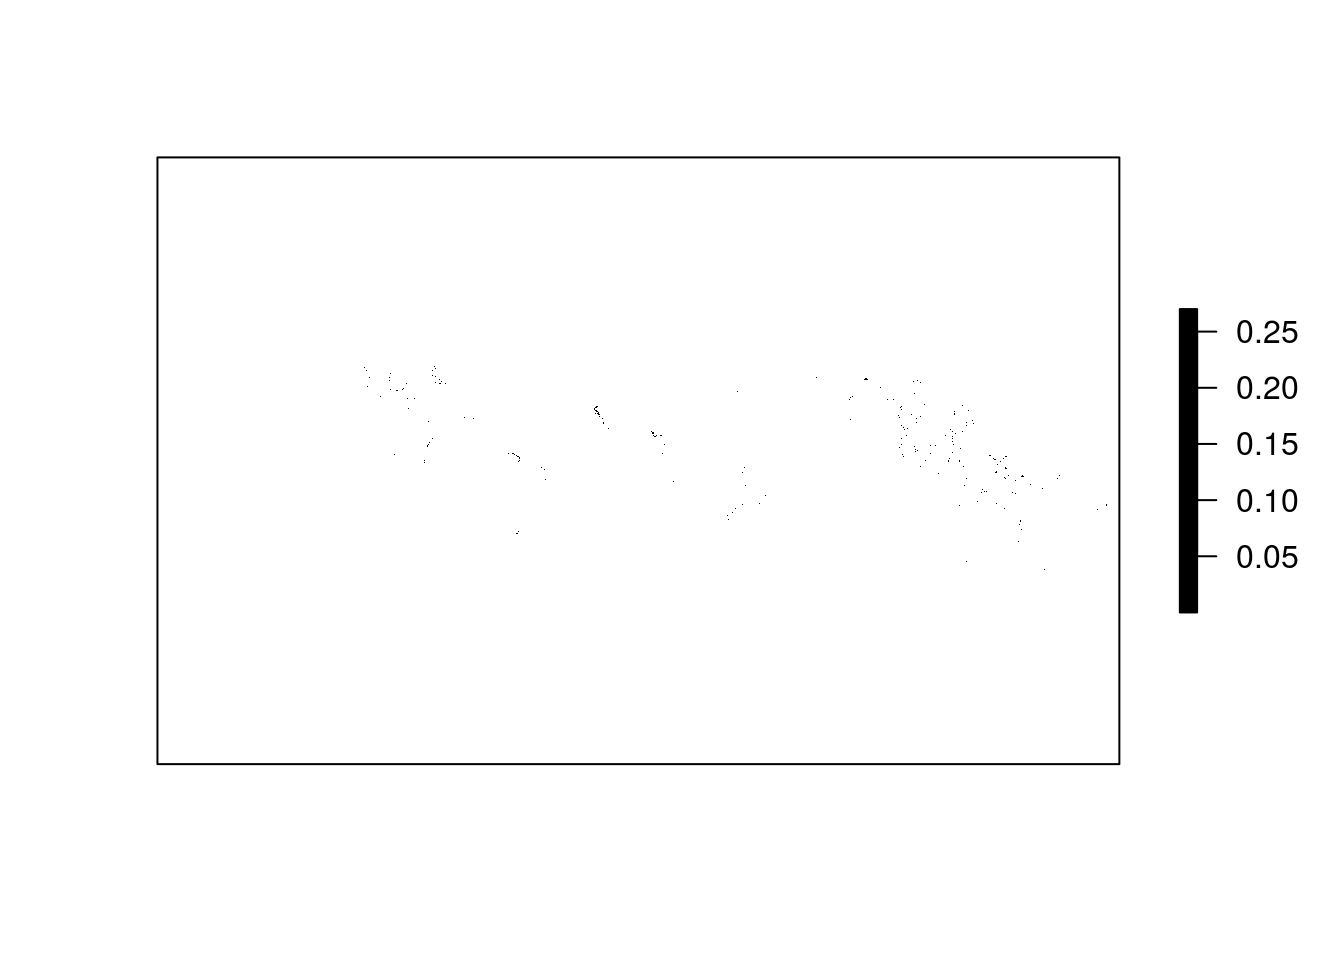
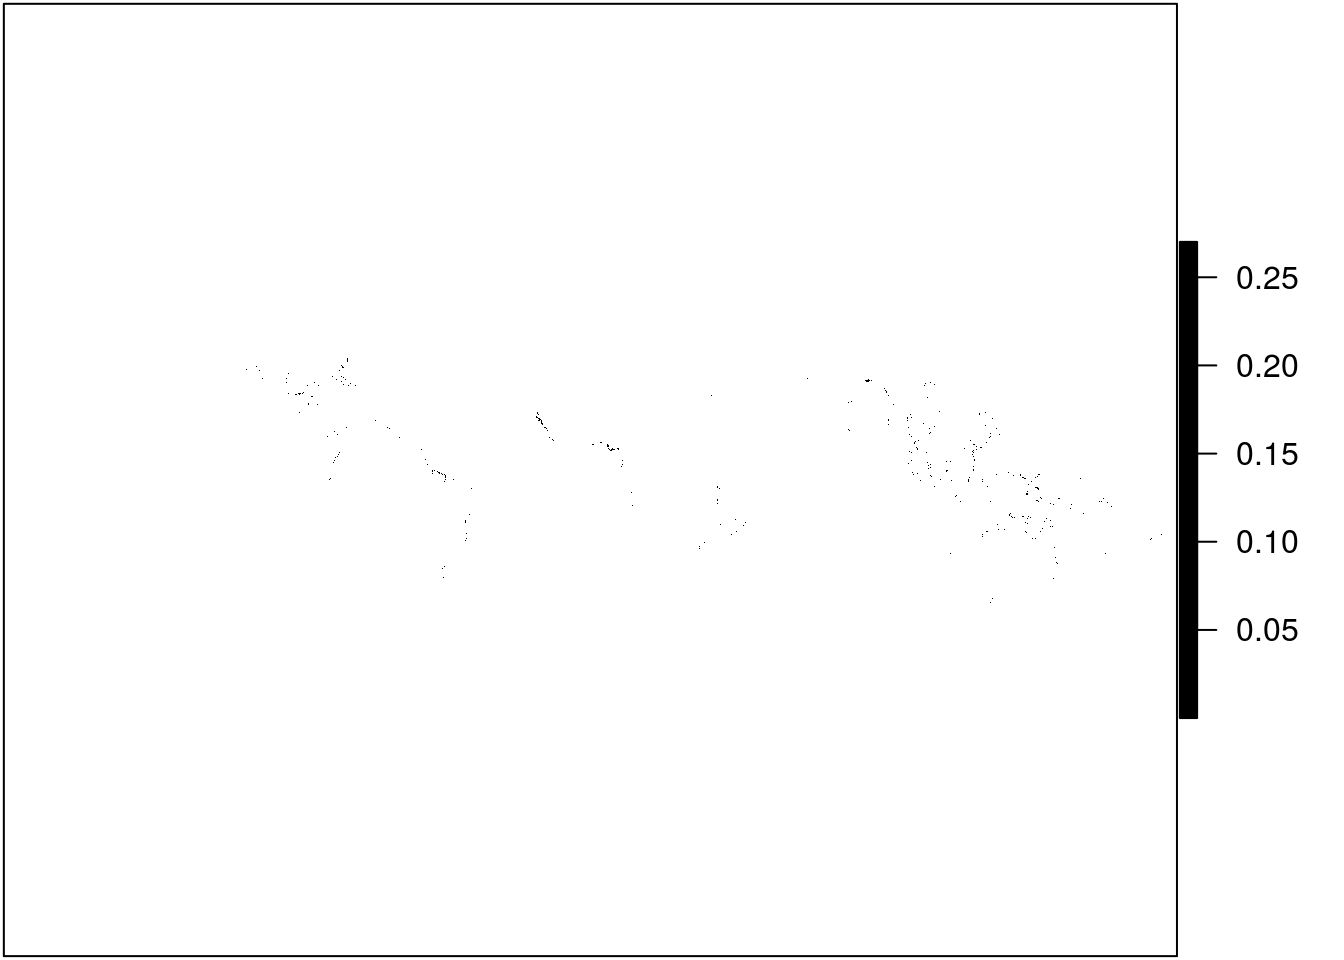
edited a bit and fixed first fig to just be one img side by side

diff --git a/public/post/cropping-rasters-down-to-size/index.html b/public/post/cropping-rasters-down-to-size/index.html
@@ -341,7 +341,10 @@
 
     <div class="article-style" itemprop="articleBody">
       <p>A significant portion of my work on the Ocean Health Index (OHI) involves working with <a href="http://desktop.arcgis.com/en/arcmap/10.3/manage-data/raster-and-images/what-is-raster-data.htm">raster data</a>, a specific type of spatial data where values are held in grid cells. The data I work with varies from high resolution remotely sensed data on <a href="https://www.nodc.noaa.gov/sog/cortad/">sea surface temperature</a> to coarse, modeled data on global <a href="http://www.seaaroundus.org/data/#/spatial-catch">fish catch</a>. When I was working on the <a href="http://ohi-science.org/ohi-global/">global assessment</a>, I dealt with raster data at a global scale.</p>
-<p><img src="/img/sst.png" alt="Sea Surface Temperature" /> <img src="/img/saup_map.png" alt="Global Fish Catch" /></p>
+<div class="figure">
+<img src="/img/example_rasters.png" />
+
+</div>
 <p>Now that I’m working on a regional assessment in the <a href="http://www.ohi-northeast.org/">US Northeast</a>, I often need to use the same data from the global assessment but crop it to my regional scale. Since I know I’m not the only one doing this (we have <a href="http://ohi-science.org/projects/ohi-assessments/">over 20 OHI+ assessments happening around the world</a> right now), I wanted to share my process for making our global raster layers usable at regional scales.</p>
 <p>To demonstrate how to crop a global raster layer to a regional scale, we’ll do the following:</p>
 <ol style="list-style-type: decimal">
@@ -364,18 +367,22 @@ library(dplyr)</code></pre>
 <p>These data could be useful for estimating mangrove cover in regions without local mangrove surveys.</p>
 </blockquote>
 <p>Let’s just take a look at the raw data. Since mangroves tend to be limited to coastal regions at tropical latitudes, it is difficult to make sense of this data when visualizing it at a global scale, even when I make all cells black in color. This is also due to the high resolution of the data.</p>
+<p>Can you see the dots!?</p>
 <pre class="r"><code>mangrove &lt;- raster(file.path(dir_M, &#39;git-annex/globalprep/Mangrove/v2015/tmp/mangrove_2012_mw/mangrove_2012_mw_km2.tif&#39;))
+
+par(mar = c(0.1, 0.1, 0.1, 0.1))
 plot(mangrove, col = &quot;black&quot;, axes = F)</code></pre>
 <p><img src="/post/2018-04-18-cropping-rasters-down-to-size-mangroves_files/figure-html/mangrove-1.png" width="672" /></p>
-<p>Fortunately, R gives us some options to explore the data more closely. We can zoom in using <code>raster::select()</code> to make more sense of the speckles we see currently.</p>
+<p>Fortunately, R gives us some options to explore the data more closely. We can zoom in using <code>raster::select()</code> to make more sense of the speckles we see currently. The <code>select()</code> function allows you to select an area on the plot with your cursor. By saving your selection to a variable (in our case <code>s</code>) you can then plot just that piece of the raster.</p>
 <div class="figure">
 <img src="/img/select_mangrove.gif" />
 
 </div>
+<p>OK that looks more like it!</p>
 </div>
 <div id="get-region-polygon" class="section level2">
 <h2>Get region polygon</h2>
-<p>We provide a shapefile of our global regions, which can be loaded and filtered for any of the 240 regions we include. This is useful for anyone that wants to use data provided at the global level, but cropped down to a region of interest. You can mamnually download the shapefile <a href="https://mazu.nceas.ucsb.edu/data/#ohi_regions">here</a>. I will download it onto my personal computer and save it in a folder called <code>data</code>.</p>
+<p>We provide a shapefile of our global regions, which can be loaded and filtered for any of the 240 regions we include. This is useful for anyone that wants to use data provided at the global level, but cropped down to a region of interest. You can click and download the shapefile <a href="https://mazu.nceas.ucsb.edu/data/#ohi_regions">here</a>. I will download it onto my personal computer and save it in a folder called <code>data</code>.</p>
 <div class="figure">
 <img src="/img/eezs.png" />
 
@@ -386,7 +393,7 @@ download.file(&quot;https://ohi.nceas.ucsb.edu/data/data/regions.zip&quot;, dest
 #unzip file
 unzip(&quot;data/ohi-global-regions.zip&quot;,exdir=&quot;data/regions&quot;)</code></pre>
 <p>Once downloaded, you will have two different regions files, one in <strong>Mollweide</strong> and one in <strong>WGS84</strong>. You can select which suits your needs. If you need more information on coordinate reference systems see <a href="https://www.nceas.ucsb.edu/~frazier/RSpatialGuides/OverviewCoordinateReferenceSystems.pdf">here</a>.</p>
-<p>Since the mangrove data comes in Mollweide, we will use the regions file in the same projection, <code>regions_mol</code>. I’m going to use the function <code>st_read()</code> to load the shapefile. This comes from the <code>sf</code> package and I think it is a cleaner way of loading and working with spatial data as opposed to using <code>readOGR()</code> from the <code>rgdal</code> package. But, as you’ll see later, when working with both polygons and rasters it is often necessary to convert a simple feature object to a <code>SpatialPolygonsDataFrame</code>.</p>
+<p>Since the mangrove data is already in a Mollweide projection, we will use the regions file in the same projection, <code>regions_mol</code>. I’m going to use the function <code>st_read()</code> to load the shapefile. This comes from the <code>sf</code> package and I think it is a cleaner way of loading and working with spatial data as opposed to using <code>readOGR()</code> from the <code>rgdal</code> package. But, as you’ll see later, when working with both polygons and rasters it is often necessary to convert a simple feature object to a <code>SpatialPolygonsDataFrame</code>.</p>
 <pre class="r"><code>## use st_read to read in the global regions shapefile as a Simple Feature object
 regions &lt;- st_read(&quot;data/regions/regions_mol.shp&quot;)</code></pre>
 <pre><code>## Reading layer `regions_mol&#39; from data source `/home/afflerbach/github/personal_website/content/post/data/regions/regions_mol.shp&#39; using driver `ESRI Shapefile&#39;
@@ -445,7 +452,7 @@ bang_sp</code></pre>
 ## names       : rgn_typ, ant_typ, rgn_id, ant_id,    rgn_nam, rgn_key,   are_km2 
 ## min values  :     eez,     eez,    204,    204, Bangladesh,     BGD, 139812.14 
 ## max values  :    land,    land,    204,    204, Bangladesh,     BGD,  84563.26</code></pre>
-<p>Now we can crop our mangrove data layer using the <code>crop()</code> function from the <code>raster</code> package. This function takes the raster data you want to crop (in our case it is <code>mangrove</code>) and the shapefile from which to get the coordinates for cropping (<code>bang_sp</code> here).</p>
+<p>Now we can crop our mangrove data layer using the <code>crop()</code> function from the <code>raster</code> package. This function takes the raster data you want to crop (in our case it is <code>mangrove</code>) and the shapefile from which to get the coordinates for cropping (<code>bang_sp</code>).</p>
 <pre class="r"><code>bang_man &lt;- crop(mangrove, bang_sp)
 plot(bang_man, axes = F)
 plot(bang_sp, add = T, box = F, axes = F)</code></pre>

diff --git a/content/post/2018-04-18-cropping-rasters-down-to-size-mangroves.html b/content/post/2018-04-18-cropping-rasters-down-to-size-mangroves.html
@@ -10,7 +10,10 @@ tags: ["spatial", "Ocean Health Index"]
 
 
 <p>A significant portion of my work on the Ocean Health Index (OHI) involves working with <a href="http://desktop.arcgis.com/en/arcmap/10.3/manage-data/raster-and-images/what-is-raster-data.htm">raster data</a>, a specific type of spatial data where values are held in grid cells. The data I work with varies from high resolution remotely sensed data on <a href="https://www.nodc.noaa.gov/sog/cortad/">sea surface temperature</a> to coarse, modeled data on global <a href="http://www.seaaroundus.org/data/#/spatial-catch">fish catch</a>. When I was working on the <a href="http://ohi-science.org/ohi-global/">global assessment</a>, I dealt with raster data at a global scale.</p>
-<p><img src="/img/sst.png" alt="Sea Surface Temperature" /> <img src="/img/saup_map.png" alt="Global Fish Catch" /></p>
+<div class="figure">
+<img src="/img/example_rasters.png" />
+
+</div>
 <p>Now that I’m working on a regional assessment in the <a href="http://www.ohi-northeast.org/">US Northeast</a>, I often need to use the same data from the global assessment but crop it to my regional scale. Since I know I’m not the only one doing this (we have <a href="http://ohi-science.org/projects/ohi-assessments/">over 20 OHI+ assessments happening around the world</a> right now), I wanted to share my process for making our global raster layers usable at regional scales.</p>
 <p>To demonstrate how to crop a global raster layer to a regional scale, we’ll do the following:</p>
 <ol style="list-style-type: decimal">
@@ -33,18 +36,22 @@ library(dplyr)</code></pre>
 <p>These data could be useful for estimating mangrove cover in regions without local mangrove surveys.</p>
 </blockquote>
 <p>Let’s just take a look at the raw data. Since mangroves tend to be limited to coastal regions at tropical latitudes, it is difficult to make sense of this data when visualizing it at a global scale, even when I make all cells black in color. This is also due to the high resolution of the data.</p>
+<p>Can you see the dots!?</p>
 <pre class="r"><code>mangrove &lt;- raster(file.path(dir_M, &#39;git-annex/globalprep/Mangrove/v2015/tmp/mangrove_2012_mw/mangrove_2012_mw_km2.tif&#39;))
+
+par(mar = c(0.1, 0.1, 0.1, 0.1))
 plot(mangrove, col = &quot;black&quot;, axes = F)</code></pre>
 <p><img src="/post/2018-04-18-cropping-rasters-down-to-size-mangroves_files/figure-html/mangrove-1.png" width="672" /></p>
-<p>Fortunately, R gives us some options to explore the data more closely. We can zoom in using <code>raster::select()</code> to make more sense of the speckles we see currently.</p>
+<p>Fortunately, R gives us some options to explore the data more closely. We can zoom in using <code>raster::select()</code> to make more sense of the speckles we see currently. The <code>select()</code> function allows you to select an area on the plot with your cursor. By saving your selection to a variable (in our case <code>s</code>) you can then plot just that piece of the raster.</p>
 <div class="figure">
 <img src="/img/select_mangrove.gif" />
 
 </div>
+<p>OK that looks more like it!</p>
 </div>
 <div id="get-region-polygon" class="section level2">
 <h2>Get region polygon</h2>
-<p>We provide a shapefile of our global regions, which can be loaded and filtered for any of the 240 regions we include. This is useful for anyone that wants to use data provided at the global level, but cropped down to a region of interest. You can mamnually download the shapefile <a href="https://mazu.nceas.ucsb.edu/data/#ohi_regions">here</a>. I will download it onto my personal computer and save it in a folder called <code>data</code>.</p>
+<p>We provide a shapefile of our global regions, which can be loaded and filtered for any of the 240 regions we include. This is useful for anyone that wants to use data provided at the global level, but cropped down to a region of interest. You can click and download the shapefile <a href="https://mazu.nceas.ucsb.edu/data/#ohi_regions">here</a>. I will download it onto my personal computer and save it in a folder called <code>data</code>.</p>
 <div class="figure">
 <img src="/img/eezs.png" />
 
@@ -55,7 +62,7 @@ download.file(&quot;https://ohi.nceas.ucsb.edu/data/data/regions.zip&quot;, dest
 #unzip file
 unzip(&quot;data/ohi-global-regions.zip&quot;,exdir=&quot;data/regions&quot;)</code></pre>
 <p>Once downloaded, you will have two different regions files, one in <strong>Mollweide</strong> and one in <strong>WGS84</strong>. You can select which suits your needs. If you need more information on coordinate reference systems see <a href="https://www.nceas.ucsb.edu/~frazier/RSpatialGuides/OverviewCoordinateReferenceSystems.pdf">here</a>.</p>
-<p>Since the mangrove data comes in Mollweide, we will use the regions file in the same projection, <code>regions_mol</code>. I’m going to use the function <code>st_read()</code> to load the shapefile. This comes from the <code>sf</code> package and I think it is a cleaner way of loading and working with spatial data as opposed to using <code>readOGR()</code> from the <code>rgdal</code> package. But, as you’ll see later, when working with both polygons and rasters it is often necessary to convert a simple feature object to a <code>SpatialPolygonsDataFrame</code>.</p>
+<p>Since the mangrove data is already in a Mollweide projection, we will use the regions file in the same projection, <code>regions_mol</code>. I’m going to use the function <code>st_read()</code> to load the shapefile. This comes from the <code>sf</code> package and I think it is a cleaner way of loading and working with spatial data as opposed to using <code>readOGR()</code> from the <code>rgdal</code> package. But, as you’ll see later, when working with both polygons and rasters it is often necessary to convert a simple feature object to a <code>SpatialPolygonsDataFrame</code>.</p>
 <pre class="r"><code>## use st_read to read in the global regions shapefile as a Simple Feature object
 regions &lt;- st_read(&quot;data/regions/regions_mol.shp&quot;)</code></pre>
 <pre><code>## Reading layer `regions_mol&#39; from data source `/home/afflerbach/github/personal_website/content/post/data/regions/regions_mol.shp&#39; using driver `ESRI Shapefile&#39;
@@ -114,7 +121,7 @@ bang_sp</code></pre>
 ## names       : rgn_typ, ant_typ, rgn_id, ant_id,    rgn_nam, rgn_key,   are_km2 
 ## min values  :     eez,     eez,    204,    204, Bangladesh,     BGD, 139812.14 
 ## max values  :    land,    land,    204,    204, Bangladesh,     BGD,  84563.26</code></pre>
-<p>Now we can crop our mangrove data layer using the <code>crop()</code> function from the <code>raster</code> package. This function takes the raster data you want to crop (in our case it is <code>mangrove</code>) and the shapefile from which to get the coordinates for cropping (<code>bang_sp</code> here).</p>
+<p>Now we can crop our mangrove data layer using the <code>crop()</code> function from the <code>raster</code> package. This function takes the raster data you want to crop (in our case it is <code>mangrove</code>) and the shapefile from which to get the coordinates for cropping (<code>bang_sp</code>).</p>
 <pre class="r"><code>bang_man &lt;- crop(mangrove, bang_sp)
 plot(bang_man, axes = F)
 plot(bang_sp, add = T, box = F, axes = F)</code></pre>
